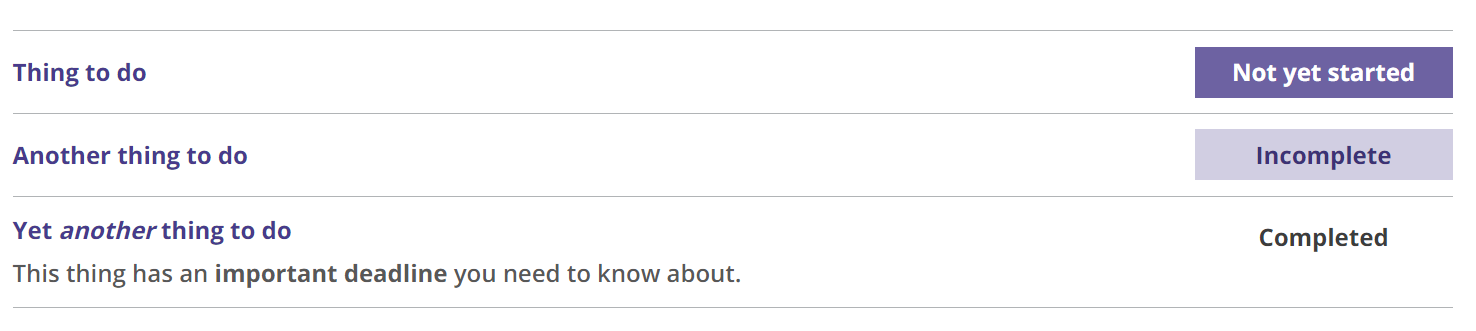
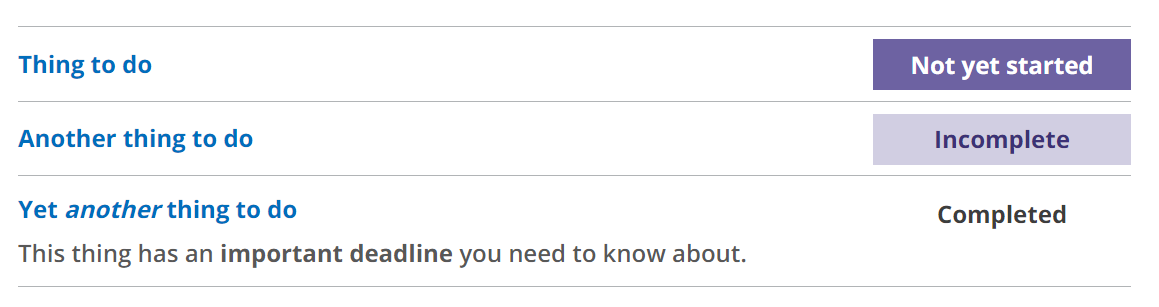
Fix TPR task list using finalised GOV.UK HTML and styles #303

diff --git a/ThePensionsRegulator.Frontend/Styles/_tpr-task-list.scss b/ThePensionsRegulator.Frontend/Styles/_tpr-task-list.scss
@@ -24,39 +24,39 @@
     color: $govuk-link-colour;
 }
 
-.govuk-task-list__status {
+.govuk-task-list__status > .govuk-tag {
     font-weight: bold;
     padding: govuk-spacing(1) govuk-spacing(4);
     min-width: 8.25rem;
     text-align: center;
 }
 
-.govuk-task-list__status--not-applicable {
+.govuk-task-list__status--not-applicable > .govuk-tag {
     color: $tpr-colour-zambezi;
     background: transparent;
 }
 
-.govuk-task-list__status--cannot-start-yet {
+.govuk-task-list__status--cannot-start-yet > .govuk-tag {
     color: $tpr-colour-eclipse;
     background-color: $tpr-colour-whisper;
 }
 
-.govuk-task-list__status--not-started {
+.govuk-task-list__status--not-started > .govuk-tag {
     color: $tpr-colour-white;
     background-color: govuk-tint($tpr-colour-violet,20);
 }
 
-.govuk-task-list__status--incomplete {
+.govuk-task-list__status--incomplete > .govuk-tag {
     color: govuk-shade($tpr-colour-violet, 16);
     background-color: govuk-tint($tpr-colour-violet, 75);
 }
 
-.govuk-task-list__status--completed {
+.govuk-task-list__status--completed > .govuk-tag {
     color: $tpr-colour-eclipse;
     background-color: transparent;
 }
 
-.govuk-task-list__status--error {
+.govuk-task-list__status--error > .govuk-tag {
     color: govuk-shade($tpr-colour-fire-brick, 30);
     background-color: govuk-tint($tpr-colour-fire-brick, 75);
 }

diff --git a/ThePensionsRegulator.Frontend/Styles/tpr.scss b/ThePensionsRegulator.Frontend/Styles/tpr.scss
@@ -28,6 +28,7 @@
 @import "govuk/components/skip-link";
 @import "govuk/components/summary-list";
 @import "govuk/components/table";
+@import "govuk/components/task-list";
 @import "govuk/components/textarea";
 @import "govuk/components/warning-text";
 @import "govuk/utilities/all";
